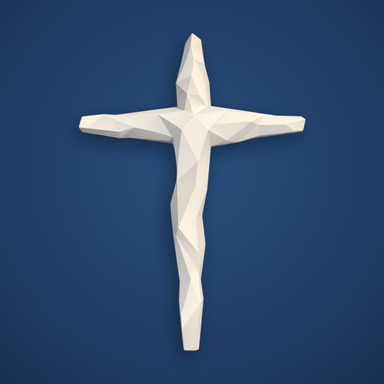
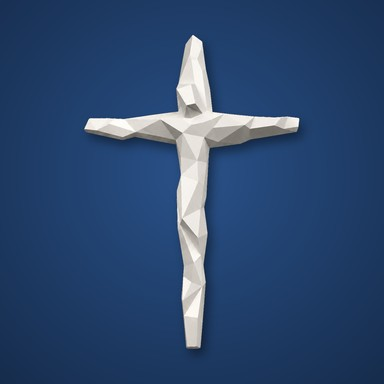
십자가 그림을 새 그림으로 교체 (앱 아이콘, 승인 화면, 제목 앞 작은 십자가)
- icons/ 의 그림 5개를 새 십자가로 다시 만들고 파일 이름을 -v2 에서 -v3 로 바꿈
  (manifest / index.html / sw.js / app.css 와 원본 dev/themes/bright.css 의 이름 갱신)
- img/cross.jpg, img/cross-mark.png 를 새 십자가로 교체
- 화면 파일 버전 v10
- README, CLAUDE.md, dev/STATUS.md 갱신

Changed region(s): [[0.1875, 0.0938, 0.8125, 0.9375]]

diff --git a/app.css b/app.css
@@ -151,7 +151,7 @@ html[data-theme="bright"] body { font-family: "Pretendard Variable", Pretendard,
 html[data-theme="bright"] #bar { background: var(--bg); color: var(--text); min-height: calc(64px + env(safe-area-inset-top)); padding: env(safe-area-inset-top) 10px 0; }
 html[data-theme="bright"] #bar h1 { font-size: 22px; font-weight: 800; letter-spacing: -0.03em; }
 html[data-theme="bright"] #bar h1.mark { gap: 10px; }
-html[data-theme="bright"] #bar h1.mark::before { width: 30px; height: 30px; border-radius: 9px; background: url(icons/icon-192-v2.png) center / cover no-repeat; box-shadow: 0 2px 6px rgba(30,58,95,.25); }
+html[data-theme="bright"] #bar h1.mark::before { width: 30px; height: 30px; border-radius: 9px; background: url(icons/icon-192-v3.png) center / cover no-repeat; box-shadow: 0 2px 6px rgba(30,58,95,.25); }
 html[data-theme="bright"] .icon-btn { color: var(--text); }
 html[data-theme="bright"] #bell { background: #fff; border-radius: 50%; width: 42px; height: 42px; margin-right: 6px; box-shadow: 0 1px 2px rgba(16,24,40,.06); }
 html[data-theme="bright"] #dot { background: #FF5A5F; top: 8px; right: 9px; }

diff --git a/sw.js b/sw.js
@@ -1,12 +1,12 @@
 // 앱 파일을 바꿀 때마다 이 버전을 올리면 성도들 휴대폰에도 새 버전이 받아집니다.
-const VERSION = 'v9';
+const VERSION = 'v10';
 const CACHE = 'chanyang-' + VERSION;
 // 글꼴은 바뀌지 않는 큰 파일이라, 앱 버전이 올라가도 다시 받지 않도록 따로 보관합니다. (글꼴을 바꾸면 이 숫자를 올립니다)
 const FONTS = 'chanyang-fonts-1';
 const SHELL = [
   './', 'index.html', 'app.css', 'app.js', 'server.js', 'config.js', 'vendor/supabase.js', 'manifest.webmanifest',
   'data/videos.txt', 'data/content.json', 'img/church-building.jpg', 'img/cross.jpg', 'img/cross-mark.png',
-  'icons/icon-192-v2.png', 'icons/icon-512-v2.png', 'icons/apple-touch-icon-v2.png', 'icons/favicon-32-v2.png'
+  'icons/icon-192-v3.png', 'icons/icon-512-v3.png', 'icons/apple-touch-icon-v3.png', 'icons/favicon-32-v3.png'
 ];
 
 self.addEventListener('install', (e) => {

diff --git a/dev/themes/bright.css b/dev/themes/bright.css
@@ -6,7 +6,7 @@ body { font-family: "Pretendard Variable", Pretendard, -apple-system, BlinkMacSy
 #bar { background: var(--bg); color: var(--text); min-height: calc(64px + env(safe-area-inset-top)); padding: env(safe-area-inset-top) 10px 0; }
 #bar h1 { font-size: 22px; font-weight: 800; letter-spacing: -0.03em; }
 #bar h1.mark { gap: 10px; }
-#bar h1.mark::before { width: 30px; height: 30px; border-radius: 9px; background: url(icons/icon-192-v2.png) center / cover no-repeat; box-shadow: 0 2px 6px rgba(30,58,95,.25); }
+#bar h1.mark::before { width: 30px; height: 30px; border-radius: 9px; background: url(icons/icon-192-v3.png) center / cover no-repeat; box-shadow: 0 2px 6px rgba(30,58,95,.25); }
 .icon-btn { color: var(--text); }
 #bell { background: #fff; border-radius: 50%; width: 42px; height: 42px; margin-right: 6px; box-shadow: 0 1px 2px rgba(16,24,40,.06); }
 #dot { background: #FF5A5F; top: 8px; right: 9px; }

diff --git a/index.html b/index.html
@@ -17,8 +17,8 @@
 })();
 </script>
 <link rel="manifest" href="manifest.webmanifest">
-<link rel="icon" href="icons/favicon-32-v2.png" sizes="32x32" type="image/png">
-<link rel="apple-touch-icon" href="icons/apple-touch-icon-v2.png">
+<link rel="icon" href="icons/favicon-32-v3.png" sizes="32x32" type="image/png">
+<link rel="apple-touch-icon" href="icons/apple-touch-icon-v3.png">
 <meta name="apple-mobile-web-app-capable" content="yes">
 <meta name="mobile-web-app-capable" content="yes">
 <meta name="apple-mobile-web-app-status-bar-style" content="default">

diff --git a/README.md b/README.md
@@ -59,12 +59,12 @@ https://nstepanet.github.io/chanyang/
 
 | 파일 | 쓰이는 곳 | 크기 |
 |---|---|---|
-| `icon-192-v2.png`, `icon-512-v2.png` | 안드로이드 홈 화면·설치 창 | 192, 512 |
-| `icon-maskable-512-v2.png` | 안드로이드에서 둥글게 잘라 보여 주는 아이콘 (십자가를 가운데 80% 원 안에 둠) | 512 |
-| `apple-touch-icon-v2.png` | 아이폰 홈 화면 | 180 |
-| `favicon-32-v2.png` | 브라우저 탭 | 32 |
+| `icon-192-v3.png`, `icon-512-v3.png` | 안드로이드 홈 화면·설치 창 | 192, 512 |
+| `icon-maskable-512-v3.png` | 안드로이드에서 둥글게 잘라 보여 주는 아이콘 (십자가를 가운데 80% 원 안에 둠) | 512 |
+| `apple-touch-icon-v3.png` | 아이폰 홈 화면 | 180 |
+| `favicon-32-v3.png` | 브라우저 탭 | 32 |
 
-그림을 바꿀 때는 **파일 이름도 함께 바꿔 주세요** (`-v2` → `-v3`). 이름이 그대로면 이미 설치한 휴대폰은 그림이 바뀐 것을 알아차리지 못합니다. 바꾼 이름은 `manifest.webmanifest`, `index.html`, `sw.js`, `app.css`(밝은 화면의 제목 앞 그림) 네 곳에 똑같이 적고, `sw.js` 의 `VERSION` 도 올립니다.
+그림을 바꿀 때는 **파일 이름도 함께 바꿔 주세요** (`-v3` → `-v4`). 이름이 그대로면 이미 설치한 휴대폰은 그림이 바뀐 것을 알아차리지 못합니다. 바꾼 이름은 `manifest.webmanifest`, `index.html`, `sw.js`, `app.css`(밝은 화면의 제목 앞 그림. 원본은 `dev/themes/bright.css`) 네 곳에 똑같이 적고, `sw.js` 의 `VERSION` 도 올립니다.
 
 이미 설치한 휴대폰의 아이콘은 바로 바뀌지 않습니다. 안드로이드는 앱을 다시 열 때 브라우저가 바뀐 아이콘을 알아차리고 사용자에게 확인을 받은 뒤 바꾸며, 아이폰은 홈 화면에서 지우고 다시 설치해야 바뀝니다.
 

diff --git a/dev/STATUS.md b/dev/STATUS.md
@@ -4,9 +4,10 @@
 
 ## 올라가 있는 것
 
-- 화면 파일 버전 `v9` (2026-11-18 에 올림). 그 뒤로 앱 파일은 바뀌지 않았습니다.
+- 화면 파일 버전 `v10` (2026-11-23 에 올림).
 - 들어 있는 기능: 홈, 설교 영상 841개, 소식·주보·일정, 관리자 글 올리기, 성도 승인(승인번호), 화면 디자인 세 가지(밝은 화면이 처음 값), 기도제목(각자 휴대폰에만 저장), 예배 안내, 홈 화면 설치.
 - 2026-11-23: 자동 검사와 도구를 `dev/` 로 옮기고 `CLAUDE.md` 를 만들었습니다. 앱 파일은 건드리지 않았습니다.
+- 2026-11-23: 십자가 그림을 저장소 주인이 준 새 그림(얼굴이 보이는 각진 십자가)으로 바꿨습니다. 앱 아이콘 5개(`-v3`), `img/cross.jpg`, `img/cross-mark.png`. 검은 바탕 원본에서 십자가만 오려 남색 바탕에 올린 것이고, 원본(1254×1254)은 커서 저장소에 넣지 않았습니다. `npm test` 780 통과, `npm run audit -- --shots` 문제 0건, `npm run sw-check` 11 통과.
 
 ## 실제 서버 (Supabase)
 
@@ -23,7 +24,7 @@
 아직 결과를 듣지 못했습니다.
 
 - 성도 승인: 승인번호 문자 보내기 → 설치 → 입력 → 명단에 "승인" 표시 (갤럭시, 아이폰)
-- 새 앱 아이콘 (안드로이드는 바꿀지 묻는 창이 뜸, 아이폰은 지우고 다시 설치)
+- 새 앱 아이콘과 새 십자가 그림 (2026-11-23 에 한 번 더 바뀜. 안드로이드는 바꿀지 묻는 창이 뜸, 아이폰은 지우고 다시 설치)
 - 다섯 탭 제목 앞의 십자가
 - 세 가지 화면 디자인의 실제 모습, 3단계 실행 뒤 디자인 바꾸기
 

diff --git a/CLAUDE.md b/CLAUDE.md
@@ -60,7 +60,7 @@
 - 올린 뒤 GitHub 의 Pages 빌드가 끝났는지 확인합니다(저장소의 Actions 화면, 또는 `gh api repos/nstepanet/chanyang/actions/runs --jq ".workflow_runs[0].status"`).
 - **앱 파일을 고쳤으면 `sw.js` 맨 위의 `VERSION` 을 올립니다.** 그래야 이미 설치한 휴대폰이 새 파일을 받습니다. `data/` 안의 파일만 고쳤거나 `dev/`, `README.md`, `CLAUDE.md` 만 고쳤으면 올리지 않습니다.
 - 글꼴 파일을 바꾸면 `sw.js` 의 `FONTS` 끝 숫자를 올립니다.
-- 아이콘 그림을 바꾸면 파일 이름의 `-v2` 도 바꾸고 `manifest.webmanifest`, `index.html`, `sw.js`, `app.css` 네 곳에 똑같이 적습니다. 이유는 `README.md` 의 "아이콘을 바꿀 때"에 있습니다.
+- 아이콘 그림을 바꾸면 파일 이름의 `-v3` 도 바꾸고(다음은 `-v4`) `manifest.webmanifest`, `index.html`, `sw.js`, `app.css`(원본 `dev/themes/bright.css` 도 함께) 네 곳에 똑같이 적습니다. 이유는 `README.md` 의 "아이콘을 바꿀 때"에 있습니다.
 
 ## 구조
 
